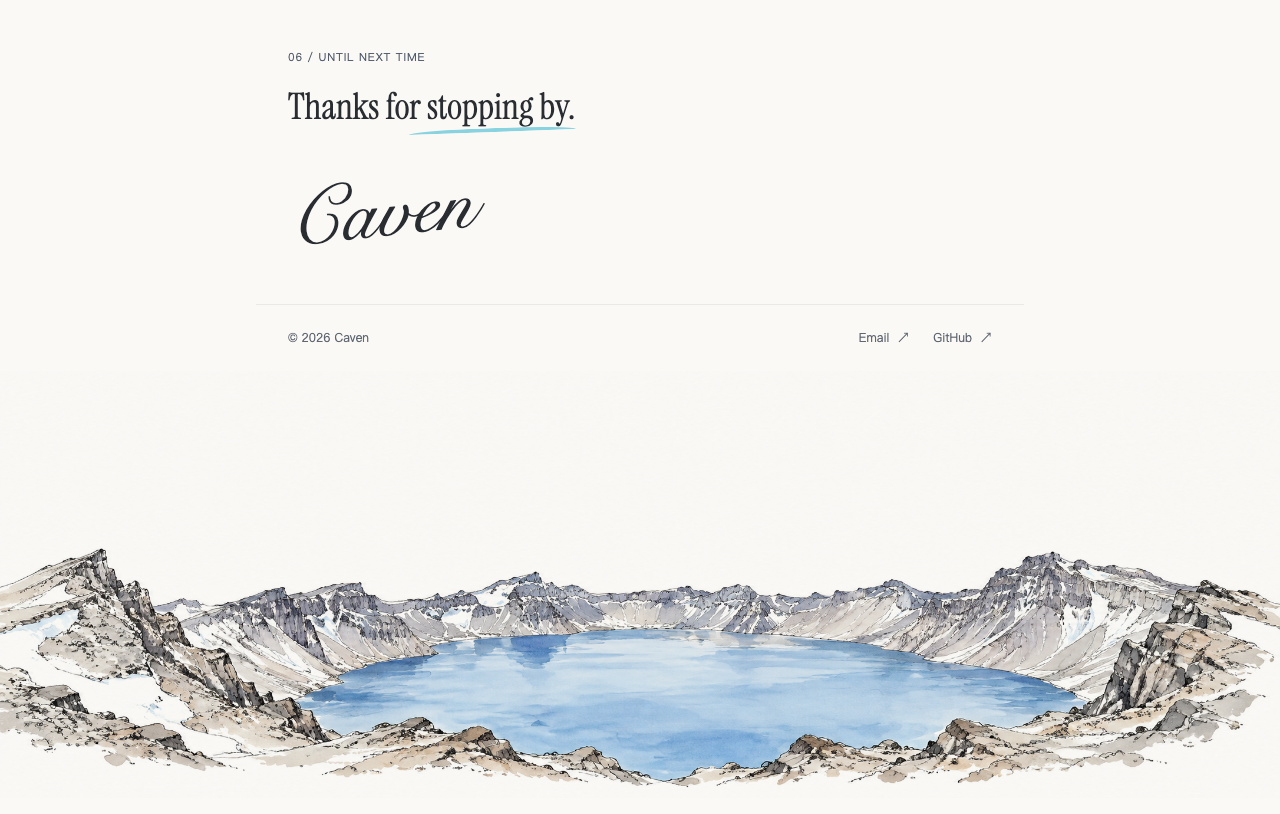
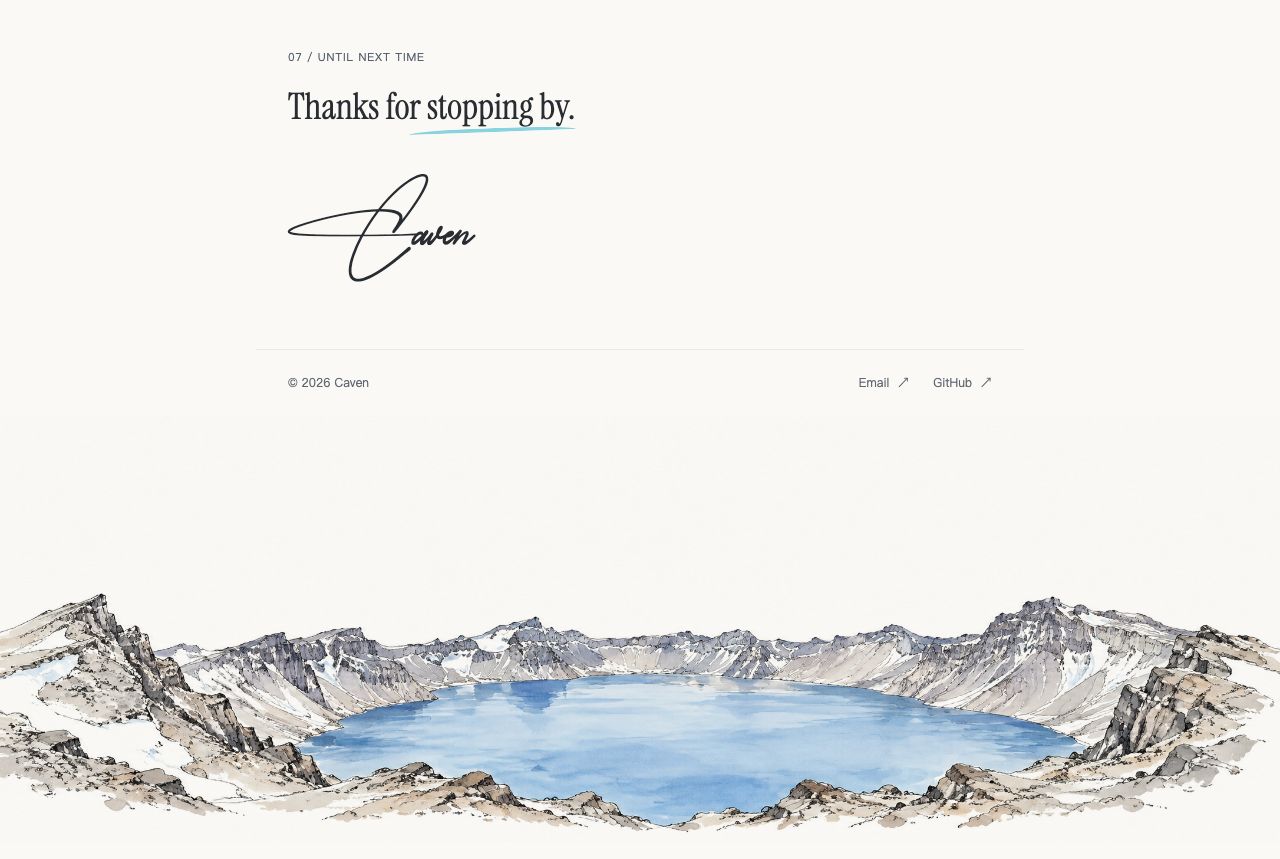
feat: preview Bastliga One signature from local font

diff --git a/src/styles/global.css b/src/styles/global.css
@@ -1,5 +1,13 @@
 @import "tailwindcss" source("../");
 
+@font-face {
+  font-family: "Caven Signature";
+  src: local("Bastliga One"), local("BastligaOne");
+  font-weight: 400;
+  font-style: normal;
+  font-display: swap;
+}
+
 :root {
   color-scheme: light;
   font-family: "Geist", "PingFang SC", "Microsoft YaHei", sans-serif;
@@ -341,10 +349,9 @@ h3 {
 .signature {
   width: fit-content;
   margin-top: 20px;
-  font-family: "Snell Roundhand", "Segoe Script", "Brush Script MT", cursive;
-  font-size: clamp(56px, 8vw, 80px);
+  font-family: "Caven Signature", "Snell Roundhand", "Segoe Script", cursive;
+  font-size: clamp(80px, 12vw, 112px);
   line-height: 1.4;
-  transform: rotate(-6deg);
 }
 .footer-meta {
   border-top: 1px solid #292d3214;

diff --git a/docs/layout-review.md b/docs/layout-review.md
@@ -57,7 +57,7 @@ Tianchi illustration fills the page width without a desktop cap, scales proporti
 and blends its white background into the warm page surface. The PNG is the original
 AI-generated candidate from this conversation, copied to `public/images/` and
 served locally. No third-party illustration was copied. Signature typography is
-only a system-script-font placeholder, not a finished custom signature asset.
+the user-selected Bastliga One, resolved from an installed local font with system-script fallbacks. The font file is not bundled or redistributed. The [font publisher’s terms](https://www.1001fonts.com/bastliga-one-font.html) allow personal use only and require a license for promotional/commercial use; production embedding and its license remain to be confirmed. Devices without the installed font display the fallback.
 
 [Desktop footer](layout-evidence/footer-desktop.png) ·
 [Mobile footer](layout-evidence/footer-mobile.png) ·
